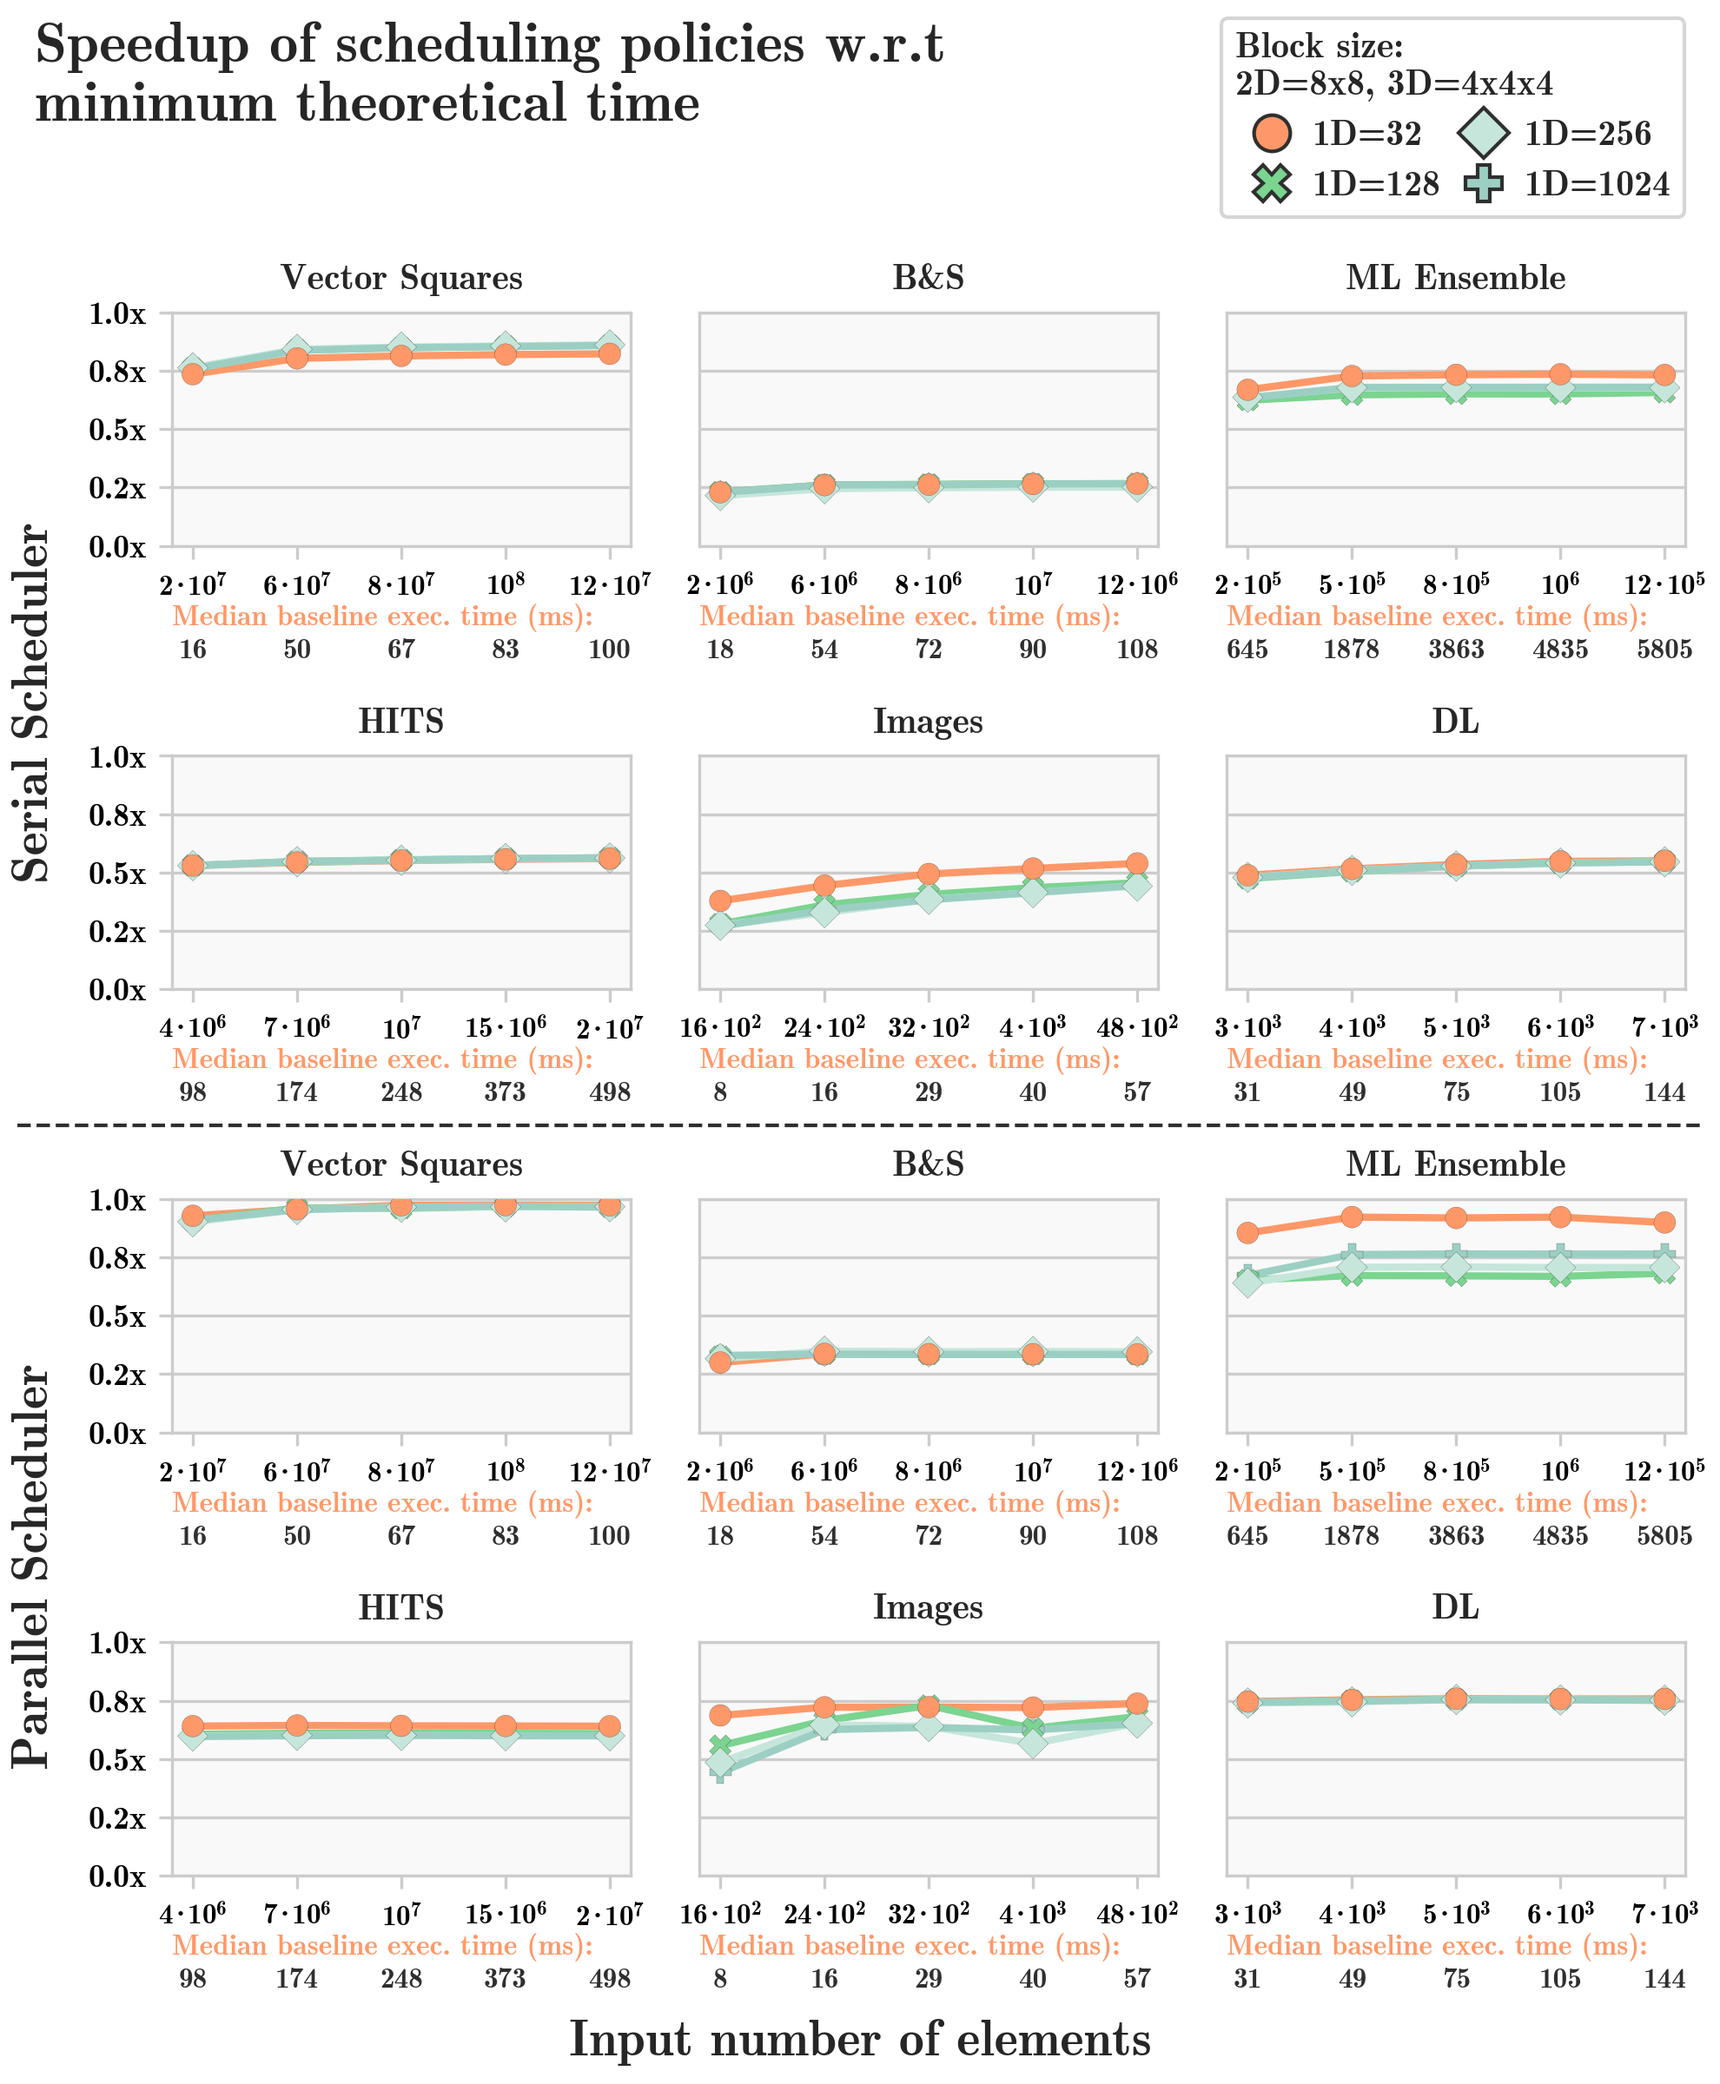
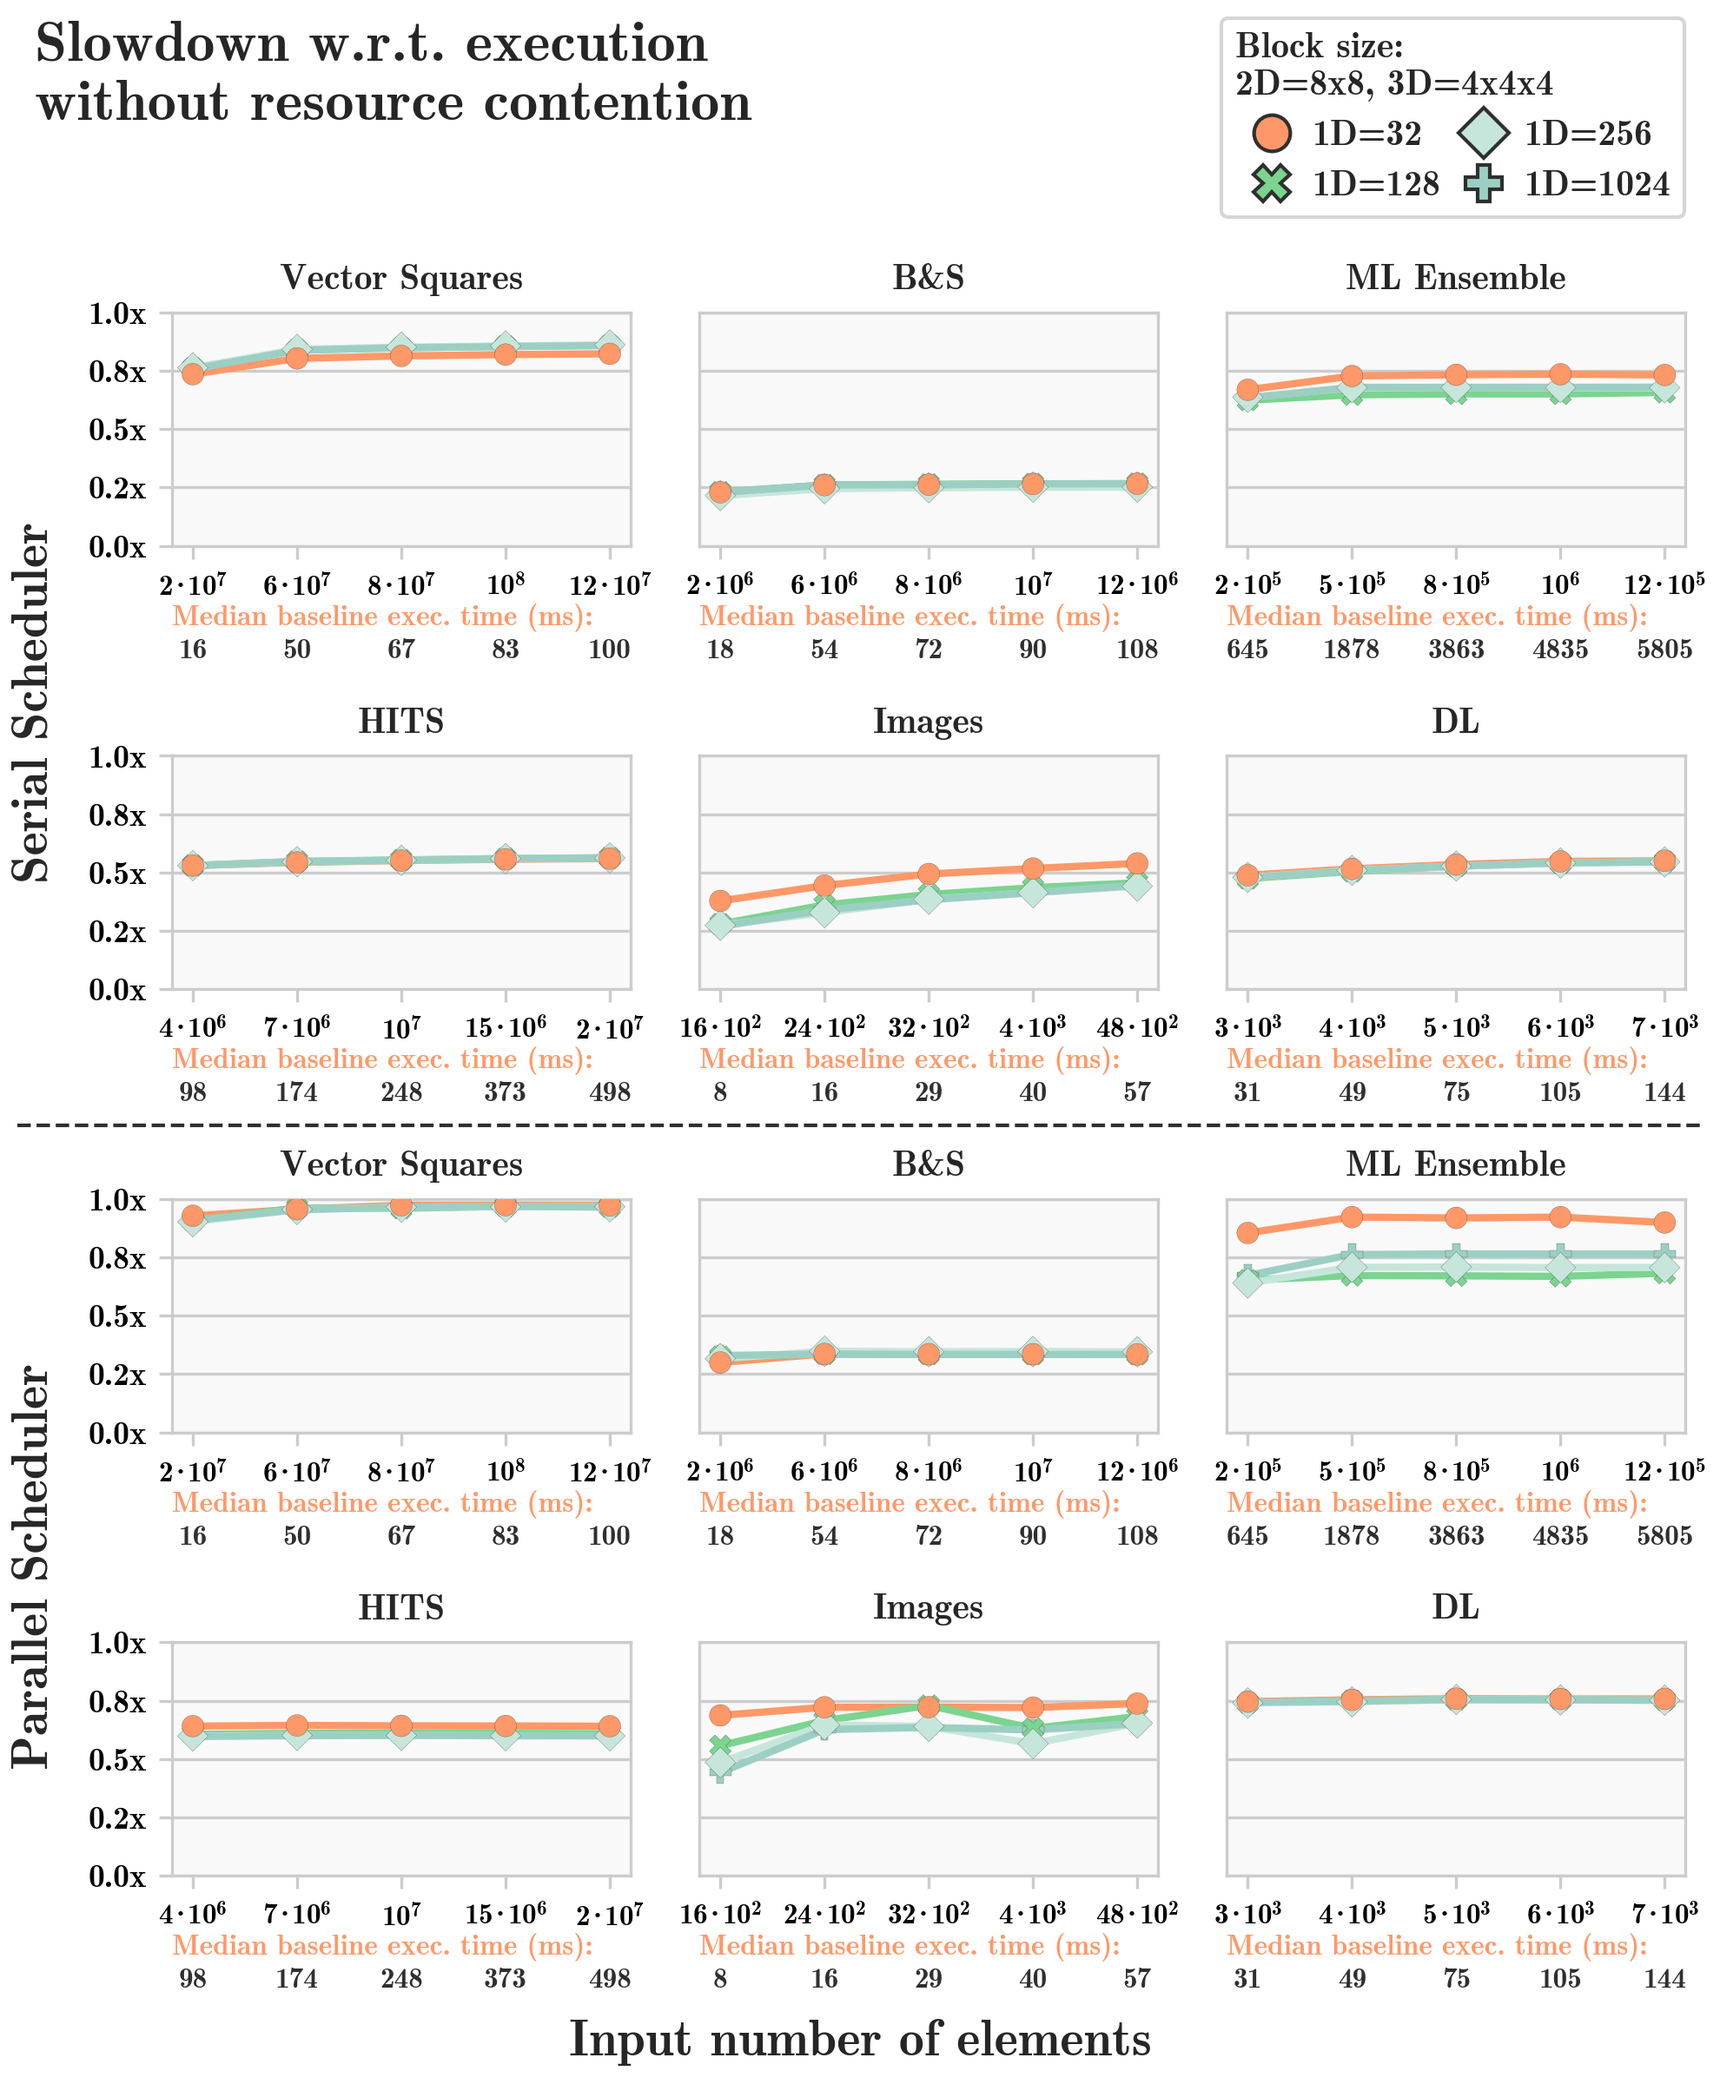
updated theoretical speed plot title

Changed region(s): [[0.0308, 0.0, 0.5545, 0.0625]]

diff --git a/projects/resources/python/plotting/plot_theoretical_performance.py b/projects/resources/python/plotting/plot_theoretical_performance.py
@@ -488,9 +488,20 @@ if __name__ == "__main__":
             exec_time_axes += [build_theoretical_time_plot_2rows(curr_res, gs, i, j, baseline_labels=baselines_dict[b])]
         
     plt.annotate("Input number of elements", xy=(0.5, 0.02), fontsize=14, ha="center", va="center", xycoords="figure fraction")
-    plt.suptitle("Speedup of scheduling policies w.r.t\nminimum theoretical time", fontsize=16, x=.02, y=0.99, ha="left")
+    plt.suptitle("Slowdown w.r.t. execution\nwithout resource contention", fontsize=16, x=.02, y=0.99, ha="left")
     
     l1 = lines.Line2D([0.01, 0.99], [0.46, 0.46], transform=fig.transFigure, figure=fig, color="#2f2f2f", linestyle="--", linewidth=1)
     fig.lines.extend([l1])
 
     save_plot(PLOT_DIR, "speedup_theoretical_time_2rows_{}.{}", OUTPUT_DATE)
+    
+    #%%
+    
+    # slowdown = gmean(data["grcuda_cuda_speedup"])
+    # print(slowdown)
+    
+    # slowdown_dict = {"sync": [], "default": []}
+    # for i, g in data.groupby(["benchmark", "exec_policy"]):
+    #     max_size = g["size"].max()
+    #     slowdown_dict[i[1]] += [gmean(g[g["size"] == max_size]["grcuda_cuda_speedup"])]
+    # print(gmean(slowdown_dict["sync"]), gmean(slowdown_dict["default"]))
